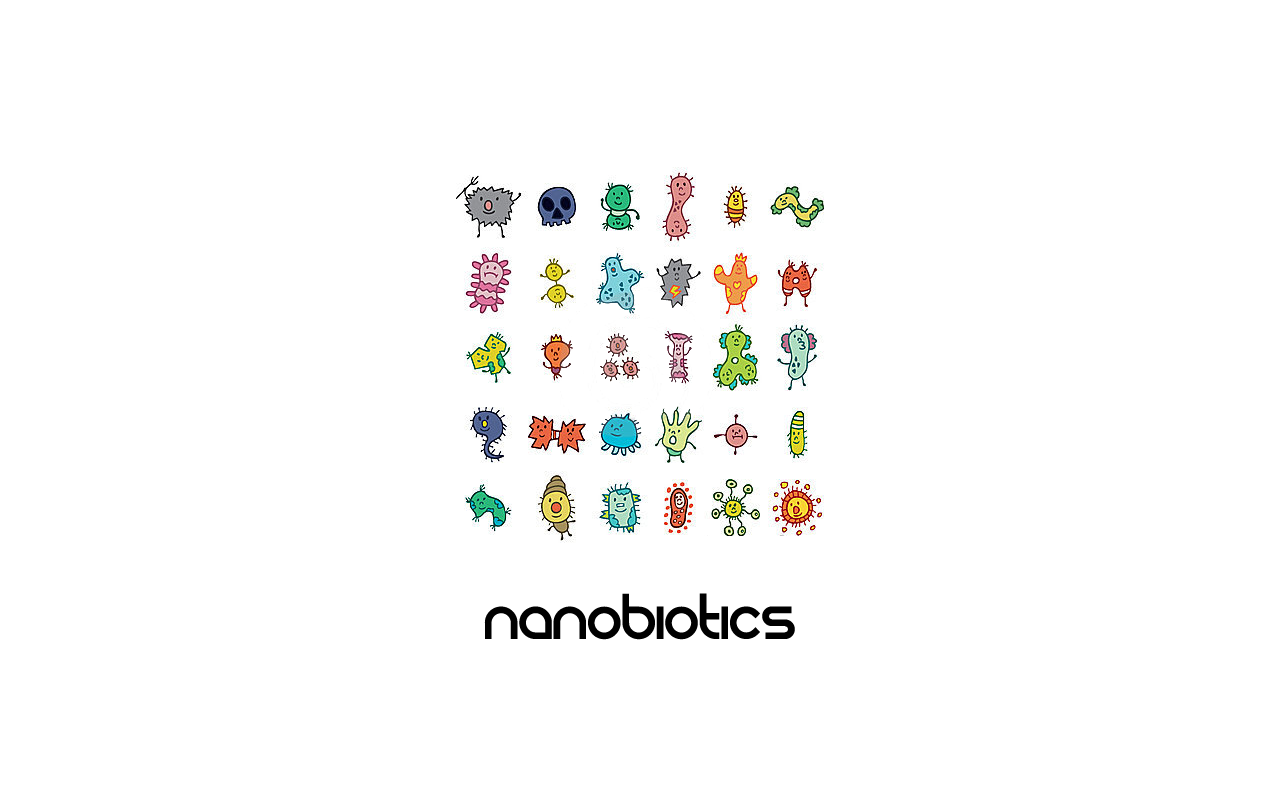
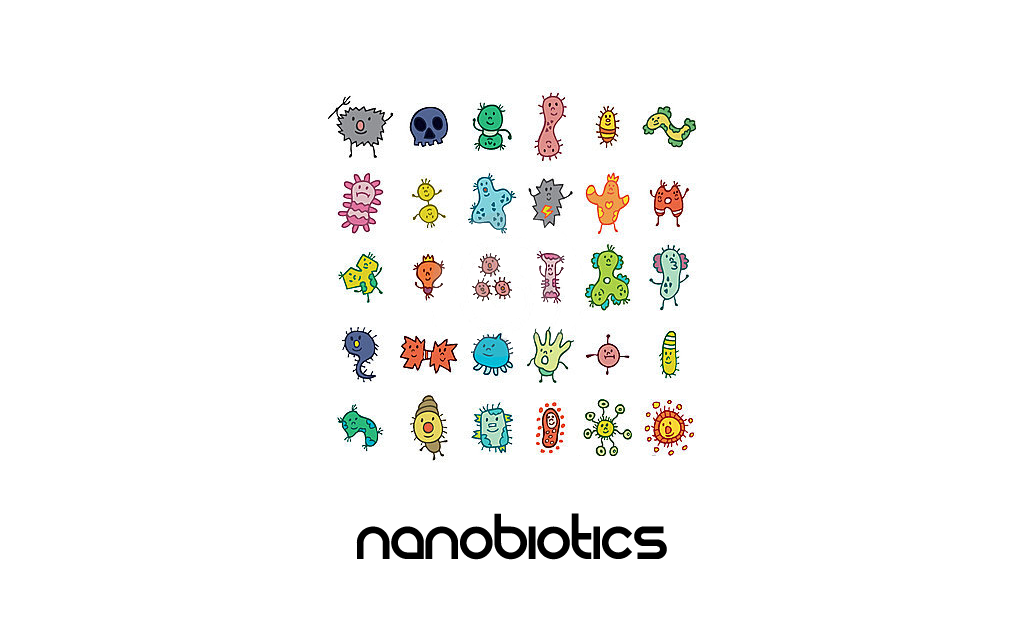
Made a much better GameObject base class, the Player is now one. The Player class is mutely cleaned up as a result. Gamepad control plays nicely with keyboard. New resolution, 1024x640. Looks pretty good Added Meenuh's first sprite. Right now its the player since we don't have a ship yet. Fixed up g

Changed region(s): [[0.3125, 0.125, 0.6875, 0.7188], [0.3438, 0.75, 0.6562, 0.875]]

diff --git a/gamelib/player.py b/gamelib/player.py
@@ -6,21 +6,24 @@ import vector
 import constants
 import gamepad
   
-class Player(pyglet.event.EventDispatcher):
+class Player(pyglet.event.EventDispatcher, obj.GameObject):
     """
     """
-    speed = 10.0
+    speed = 12.0
     speed_diag = speed * 0.7071    
-    width = 32
-    height = 32    
+    vel_smooth = 0.4
+    width = 64
+    height = 64    
     
     def __init__(self, x, y):    
-        self.alive = True
-        self.pos = vector.Vec2d(x,y)
-        self.sprite = pyglet.sprite.Sprite(data.spritesheet[random.randrange(5)*8 + random.randrange(6)], self.pos.x, self.pos.y)
-        self.target_velocity = vector.Vec2d(0, 0)
-        self.velocity = vector.Vec2d(0, 0)
+                
+        obj.GameObject.__init__(self, data.spritesheet[0], x, y)
+        
+        self.alive = True        
+        self.vel_target = vector.Vec2d(0, 0)
         self.target = vector.Vec2d(x,y)
+        
+        # pyglet events
         self.keys = pyglet.window.key.KeyStateHandler()
         self.gamepad = gamepad.GamepadHandler.connect()
         self.dispatch_event('on_respawn')
@@ -32,10 +35,13 @@ class Player(pyglet.event.EventDispatcher):
         print 'Gamepad Button!'    
         
     def on_key_press(self, symbol, modifiers):
+        """
+        Perform oneoff key press actions.
+        """
         pass
-
+        
     def on_mouse_press(self, x, y, button, modifiers):
-        self.sprite.image = data.spritesheet[random.randrange(5)*8 + random.randrange(6)]
+        self.sprite.texture = data.spritesheet[random.randrange(5)*8 + random.randrange(6)]
         
     def on_mouse_release(self, x, y, button, modifiers):
         pass
@@ -46,58 +52,59 @@ class Player(pyglet.event.EventDispatcher):
                  
     def on_mouse_drag(self, x, y, dx, dy, buttons, modifiers): 
         self.on_mouse_motion(x,y,dx,dy)
-                                        
-    def render(self):        
-        self.sprite.draw()
-                
+                                                    
     def update(self):
         if not self.alive: return
-        
-            
-        self.target_velocity.zero()
+                    
+        self.vel_target.zero()
         
         if self.gamepad:
-
+            # we might want to move this into the pyglet event loop
             self.gamepad.update()
-                
-            if abs(self.gamepad.axis[0]) > 0.1 or abs(self.gamepad.axis[1]) > 0.1:
-                self.target_velocity.x = self.gamepad.axis[0]
-                self.target_velocity.y = -self.gamepad.axis[1]
-                if self.target_velocity.magnitude_sq > 1:
-                    self.target_velocity.normalize()            
-                self.target_velocity *= self.__class__.speed
+            self.vel_target.x = self.gamepad.axis[0]
+            self.vel_target.y = -self.gamepad.axis[1]
 
         if self.keys[pyglet.window.key.A]:                        
             if self.keys[pyglet.window.key.W]:
-                self.target_velocity.y += self.__class__.speed_diag
-                self.target_velocity.x -= self.__class__.speed_diag
+                self.vel_target.y += 0.7071
+                self.vel_target.x -= 0.7071
             elif self.keys[pyglet.window.key.S]:
-                self.target_velocity.y -= self.__class__.speed_diag
-                self.target_velocity.x -= self.__class__.speed_diag
+                self.vel_target.y -= 0.7071
+                self.vel_target.x -= 0.7071
             else:
-                self.target_velocity.x -= self.__class__.speed            
+                self.vel_target.x -= 1.0          
         elif self.keys[pyglet.window.key.D]:            
             if self.keys[pyglet.window.key.W]:
-                self.target_velocity.y += self.__class__.speed_diag
-                self.target_velocity.x += self.__class__.speed_diag
+                self.vel_target.y += 0.7071
+                self.vel_target.x += 0.7071
             elif self.keys[pyglet.window.key.S]:
-                self.target_velocity.y -= self.__class__.speed_diag
-                self.target_velocity.x += self.__class__.speed_diag
+                self.vel_target.y -= 0.7071
+                self.vel_target.x += 0.7071
             else:
-                self.target_velocity.x += self.__class__.speed
+                self.vel_target.x += 1.0
         else:                        
             if self.keys[pyglet.window.key.W]:
-                self.target_velocity.y += self.__class__.speed
+                self.vel_target.y += 1.0
             elif self.keys[pyglet.window.key.S]:
-                self.target_velocity.y -= self.__class__.speed
+                self.vel_target.y -= 1.0
             else:
                 pass
         
-        self.velocity += (self.target_velocity - self.velocity ) * 0.4
-        self.pos += self.velocity        
-        self.sprite.position = self.pos.x, self.pos.y
-        self.sprite.rotation = self.velocity.angle
+        # normalize target velocity to length 1
+        if self.vel_target.magnitude_sq > 1:
+            self.vel_target.normalize()
+
+        self.vel_target *= self.__class__.speed
+            
+        # smooth velocity changes
+        self.vel += (self.vel_target - self.vel ) * self.__class__.vel_smooth
     
+        # do regular euler updates
+        super(Player, self).update()
+        
+        # modify rotation
+        self.sprite.rot = -self.vel.angle
+        
     def hit(self, other):        
         pass
         

diff --git a/gamelib/obj.py b/gamelib/obj.py
@@ -1,36 +1,55 @@
 import pyglet
+import rabbyt
 import vector
 
-class GameObject(pyglet.sprite.Sprite):
+class GameObject(object):
     
     width = 0.0
-    height = 0.0    
+    height = 0.0
     
-    def __init__(self, sprite, x=0.0, y=0.0, vx=0.0, vy=0.0):
-        super(GameObject, self).__init__(sprite, x, y)
-        self.x, self.y = x,y
+    def __init__(self, img, x=0.0, y=0.0, vx=0.0, vy=0.0):
+                
         self.pos = vector.Vec2d(x, y)
-        self.velocity = vector.Vec2d(vx, vy)
-        self.width = self.__class__.width
-        self.height = self.__class__.height
-        self.bounding_radius = self.__class__.width
-        self.bounding_radius_sq = self.__class__.width ** 2
-        self.render = self.draw
-                    
-    def update(self):
-        self.pos += self.velocity
-        self.x, self.y = self.pos.x, self.pos.y
+        self.vel = vector.Vec2d(vx, vy)
+        self.bounding_radius = self.__class__.width // 2
+        self.bounding_radius_squared = self.bounding_radius ** 2
+                
+        # rabbyt stuff
+        self.sprite = rabbyt.Sprite(img, xy=(x,y))
+        self.x = self.sprite.attrgetter('x')
+        self.y = self.sprite.attrgetter('y')
+        self.render = self.sprite.render
 
-    def flash(self, duration, rgba=(0,0,0,0), time=None, on=True):
-        if time == None: time = duration
-        if on:
-            self.color = 255,255,255
-            self.opacity = 255
-        else:
-            self.color = rgba[:3]
-            self.opacity = rgba[3]
-        if time >= 0:
-            pyglet.clock.schedule_once(self.flash, 0.125, rgba, time-0.125, not on)
-        else:
-            self.color = 255,255,255
-            self.opacity = 255
+    def update(self):
+        self.pos += self.vel
+        self.sprite.xy = self.pos.x, self.pos.y
+        
+class CompoundGameObject(GameObject):
+    
+    def __init__(self, imgs, x=0.0, y=0.0, vx=0.0, vy=0.0):
+        self.pos = vector.Vec2d(x, y)
+        self.vel = vector.Vec2d(vx, vy)
+        self.bounding_radius = self.__class__.width // 2
+        self.bounding_radius_squared = self.sprite.bounding_radius ** 2
+        
+        # rabbyt stuff
+        for i in imgs:
+            self.sprites = rabbyt.Sprite(i, xy=(x,y))
+            s.offset_x = 0
+            s.offset_y = 0
+        
+    @property
+    def x(self): return self.pos.x
+        
+    @property
+    def y(self): return self.pos.y
+                            
+    def render(self):
+        for s in self.sprites:
+            s.render()
+            
+    def update(self):
+        self.pos += self.vel
+        for s in self.sprites:
+            s.xy = self.pos.x + s.offset_x, self.pos.y + s.offset_y
+        

diff --git a/gamelib/gamepad.py b/gamelib/gamepad.py
@@ -2,6 +2,15 @@ import pyglet
 try:
     import pygame
     pygamefound = True
+    pygame.display.init()
+    pygame.joystick.init()
+    pygame.event.set_allowed([
+        pygame.JOYAXISMOTION, 
+        pygame.JOYBALLMOTION, 
+        pygame.JOYHATMOTION, 
+        pygame.JOYBUTTONUP, 
+        pygame.JOYBUTTONDOWN
+    ])
 except ImportError:
     pygamefound = False
 
@@ -12,28 +21,37 @@ class GamepadHandler(pyglet.event.EventDispatcher):
         self.buttons = {}
         self.hats = {}
         self.axis = {}        
-
+        self.deadzone = 0.1
+        
         self.j = pygame.joystick.Joystick(id)
         self.j.init()
+        
         self.dispatch_event('on_gamepad_connect')
         
     def update(self):
+        
+        # this should go somehwhere else.
         pygame.event.pump()
+        
         for a in range(self.j.get_numaxes()):
             self.axis[a] = self.j.get_axis(a)
+            if abs(self.axis[a]) < self.deadzone: self.axis[a] = 0.0
+            
         for b in range(self.j.get_numbuttons()):
+            old_b_state = self.buttons[b]
             self.buttons[b] = self.j.get_button(b)
-            if self.buttons[b]: 
+            
+            if self.buttons[b] and not old_b_state:
                 self.dispatch_event('on_gamepad_button')
                 print 'button %d' % b
             
     @classmethod
     def connect(cls):
+        
         if not pygamefound:
             print "Could not import pygame, gamepad support disabled."
             return None
-            
-        pygame.init()
+                    
         count = pygame.joystick.get_count()
         if not count: 
             return None
@@ -41,3 +59,4 @@ class GamepadHandler(pyglet.event.EventDispatcher):
             return cls(0)
                 
 GamepadHandler.register_event_type('on_gamepad_connect')
+GamepadHandler.register_event_type('on_gamepad_button')

diff --git a/gamelib/controller.py b/gamelib/controller.py
@@ -12,9 +12,9 @@ if not pyglet.media.have_avbin:
 class Controller(pyglet.window.Window):
     
     def __init__(self):
-        super(Controller, self).__init__(caption="Nanobiotics", fullscreen=True)        
+        super(Controller, self).__init__(width=constants.WIDTH, height=constants.HEIGHT, caption="Nanobiotics")#, fullscreen=True)        
         self.viewport = fixed_resolution.FixedResolutionViewport(self, constants.WIDTH, constants.HEIGHT, filtered=False)        
-        self.set_exclusive_mouse(True)
+        # self.set_exclusive_mouse(True)
         self.state = None
         self.fps_display = pyglet.clock.ClockDisplay()
                 
@@ -33,7 +33,7 @@ class Controller(pyglet.window.Window):
     def on_key_press(self, symbol, modifiers):
         if symbol == key.ESCAPE:
             pyglet.app.exit()
-        elif symbol == key.F and modifiers & key.MOD_CTRL or modifiers & key.MOD_COMMAND:
+        elif symbol == key.F and (modifiers & key.MOD_CTRL or modifiers & key.MOD_COMMAND):
             self.set_fullscreen(not self.fullscreen)
             if not self.fullscreen:
                 self.width, self.height = constants.WIDTH, constants.HEIGHT            

diff --git a/gamelib/constants.py b/gamelib/constants.py
@@ -1,6 +1,6 @@
 # RESOLUTION
-WIDTH = 1200
-HEIGHT = 800
+WIDTH = 1024
+HEIGHT = 640
 
 # DIFFICULTY
 EASY, NORMAL, HARD, WTF = range(4)
